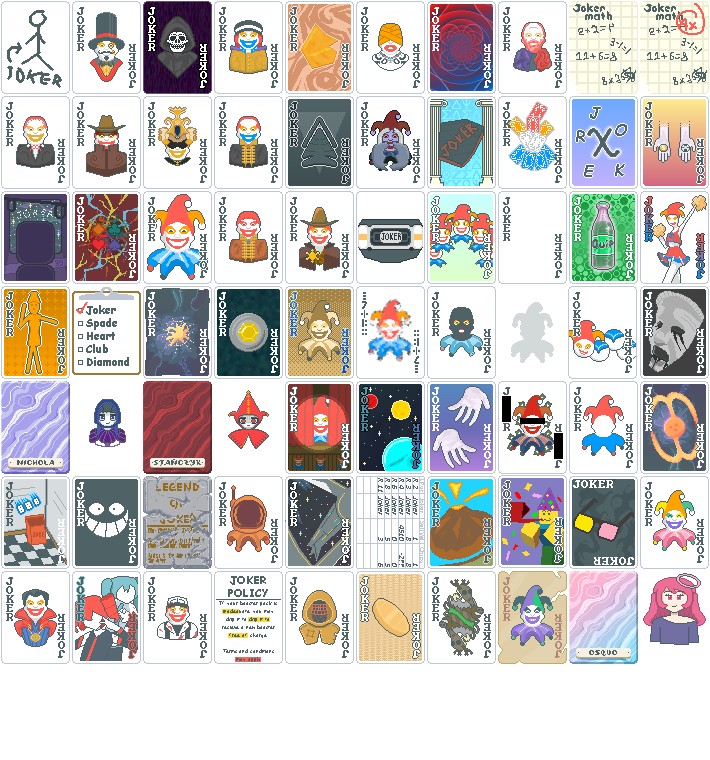
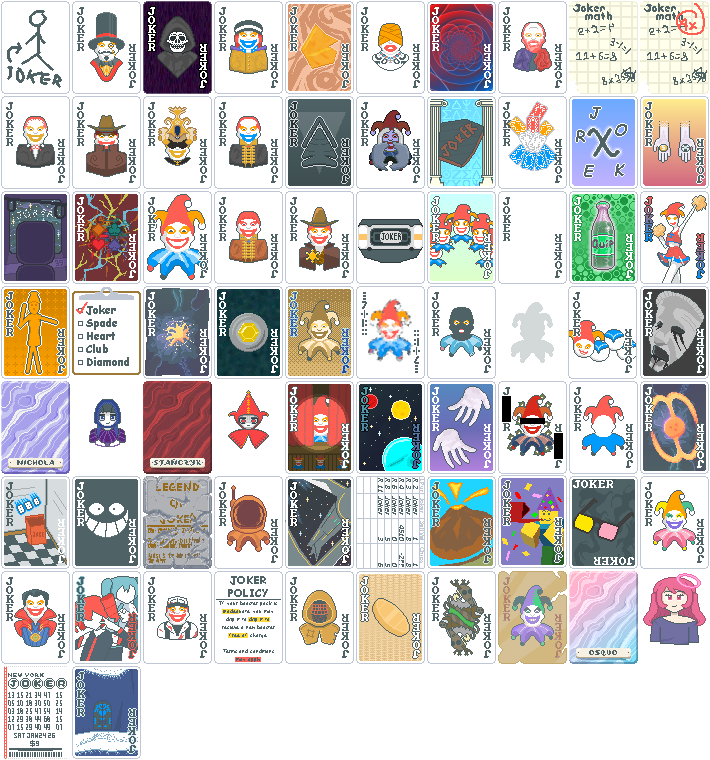
Minr Changes

diff --git a/README.md b/README.md
@@ -4,7 +4,7 @@ A fun-focused and (hopefully) balanced extension to the vanilla game, aiming to 
 This is my first mod (and first real project like this), so I hope you're able to enjoy playing it as much as I did making it.
 
 # Content
-- 63 New Jokers
+- 68 New Jokers
 - 3 New Spectral Cards
 - 4 New Tarot Cards
 - 3 New Enhancements
